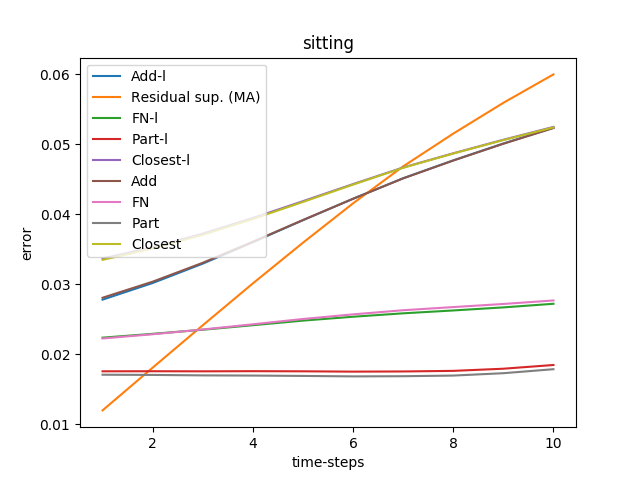
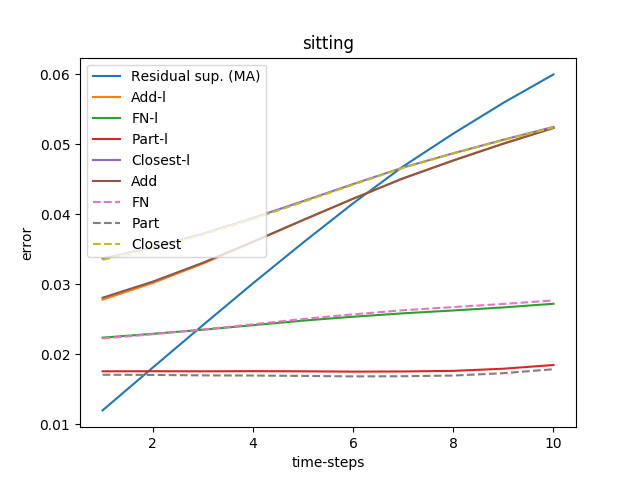
g

diff --git a/RNN/utils/metric_baselines.py b/RNN/utils/metric_baselines.py
@@ -139,10 +139,12 @@ def plot_results_npy(from_path, npy_files_dirs, method_names):
 					pd_b = np.load(from_path + LOAD_PATH + basename + '_1-%d.npy'%j)[:t]
 					score_[j] = metrics.__pose_seq_error(pd_b, gt, cumulative=True)
 
-			plt.plot(range(1,t+1), np.mean(score, axis=0), label=method_names[i])
-
 			if i == 0:
 				plt.plot(range(1,t+1), np.mean(score_, axis=0), label='Residual sup. (MA)')
+			if i > len(method_names)/2:
+				plt.plot(range(1,t+1), np.mean(score, axis=0), label=method_names[i], linestyle='--')
+			else:
+				plt.plot(range(1,t+1), np.mean(score, axis=0), label=method_names[i])
 
 		plt.legend()
 		plt.xlabel('time-steps')
